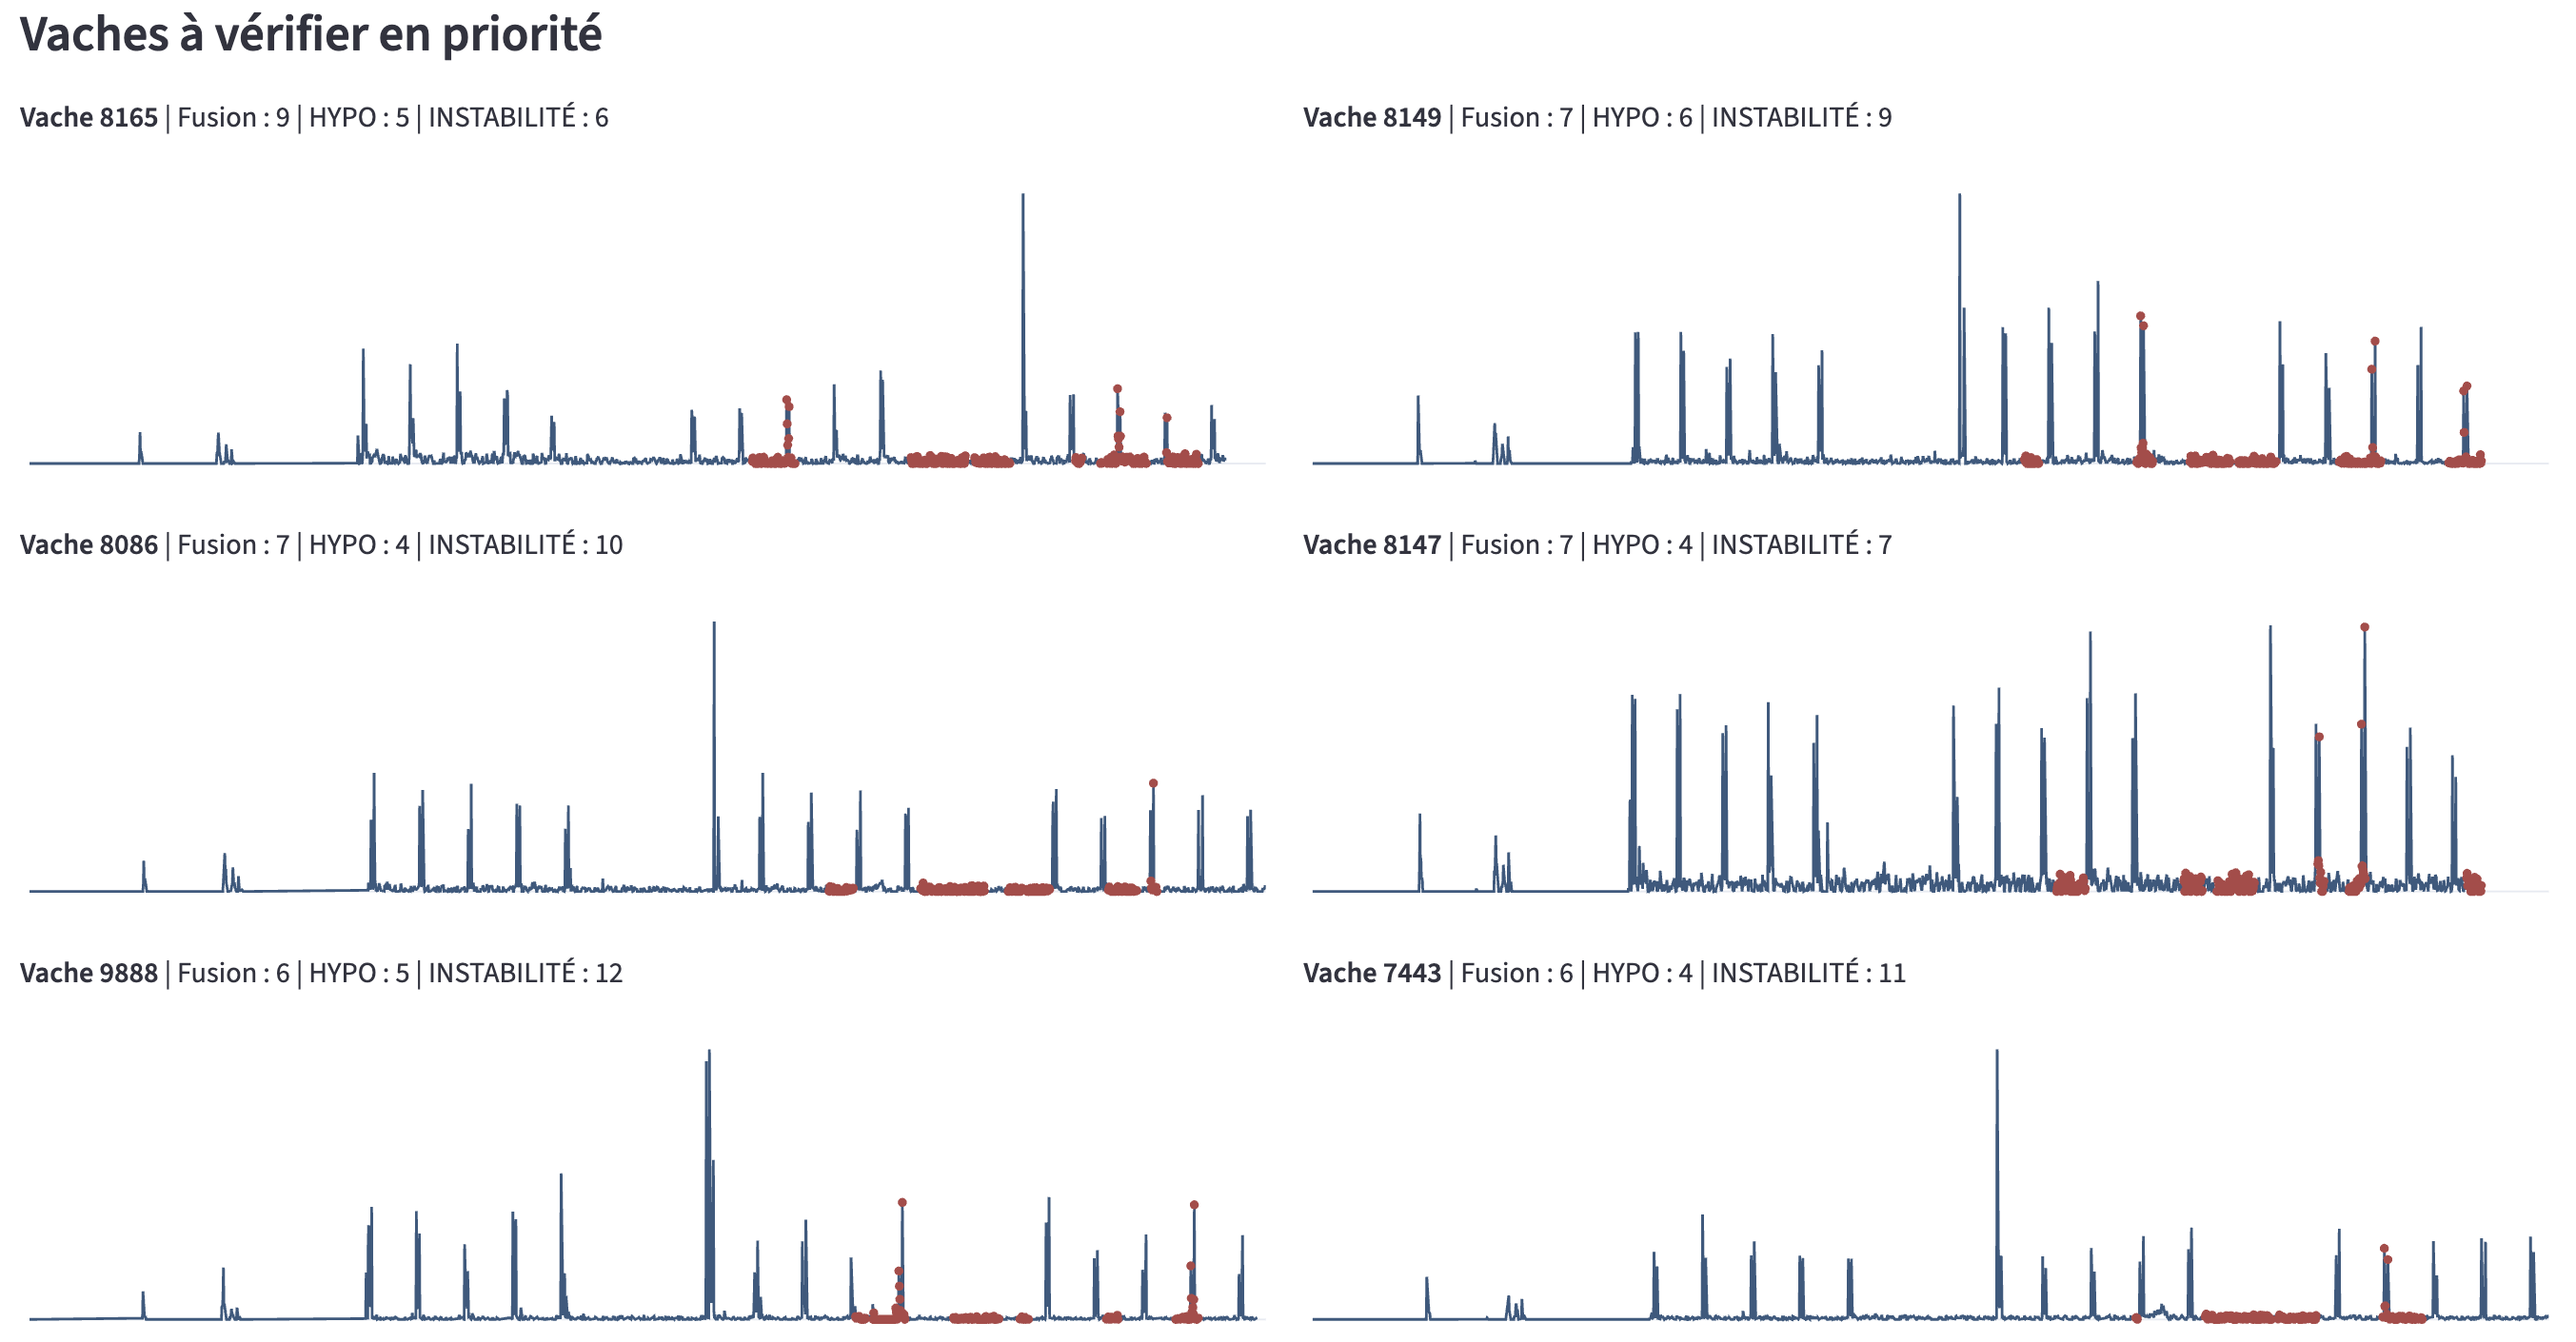
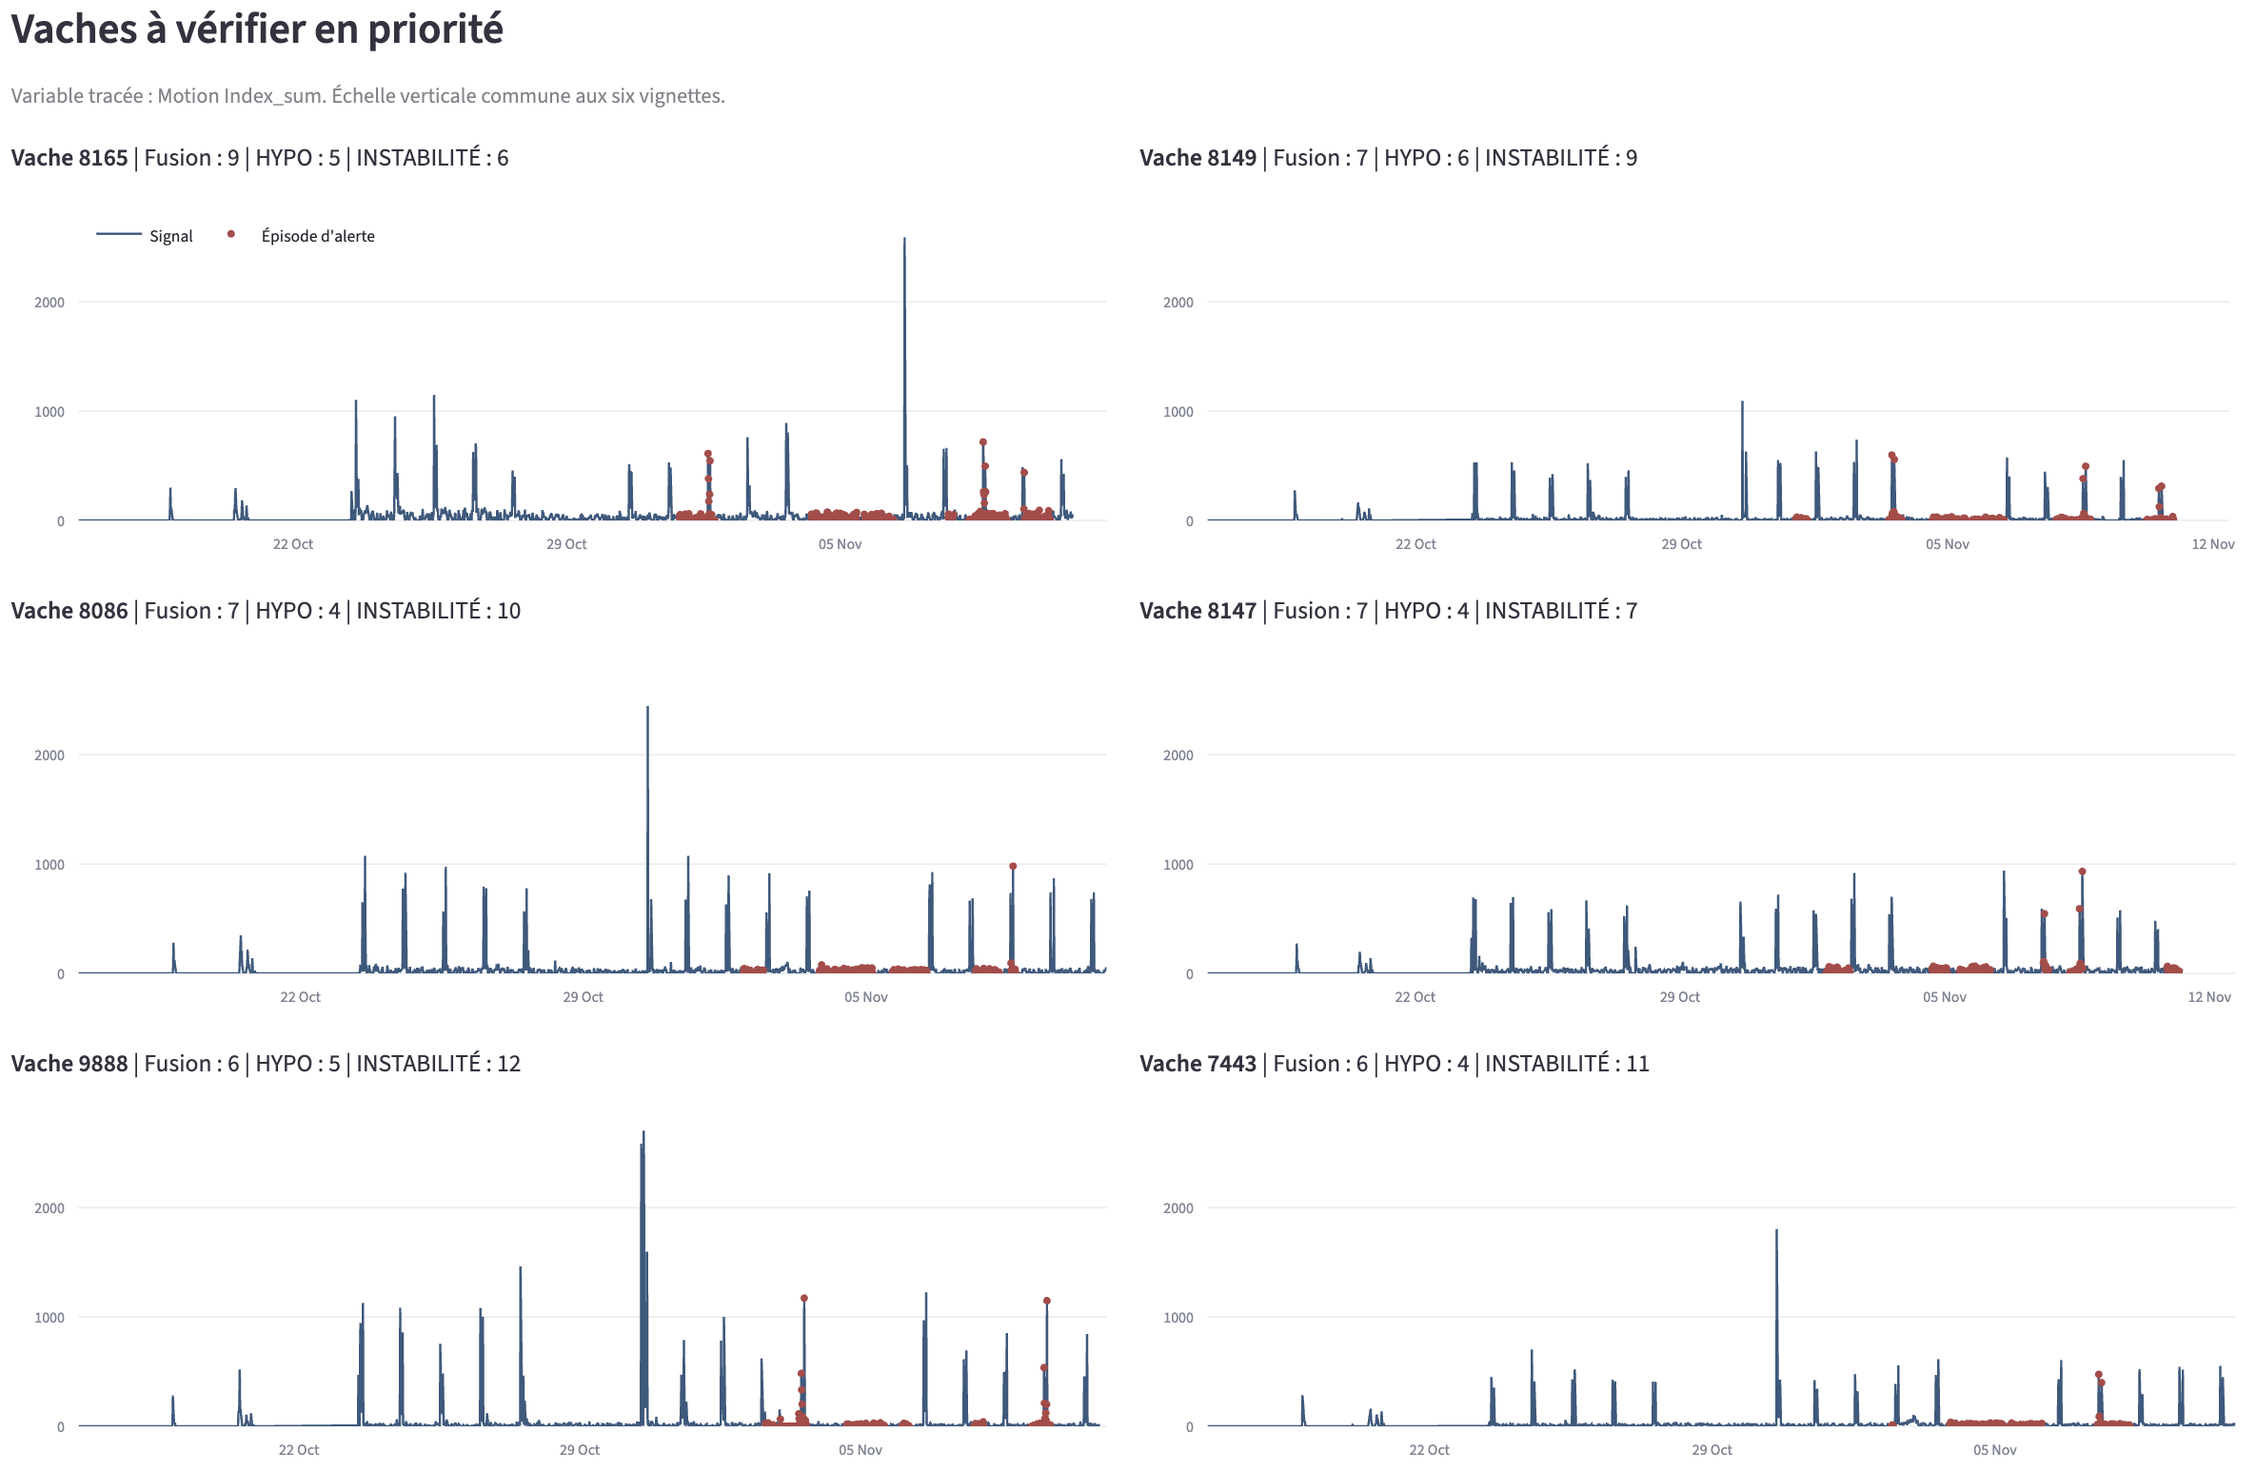
memoirev3: recapturer la figure 5.5 avec ses axes
La vue porte desormais les dates, les graduations, l'echelle commune aux
six vignettes et la cle de lecture. La capture passe en RGB : macOS lui
avait ajoute un canal alpha, entierement opaque et sans effet visuel, mais
que la validation PDF/A-1b refuse.

Plus haute que la precedente, elle depassait de trois dixiemes de point la
hauteur disponible a 0,98 de la ligne, ce qui repoussait le flottant et
ajoutait une page. Elle passe a 0,96 : 5,65 pouces de hauteur, 273 ppp,
129 pages et aucun debordement.

Les deux commentaires de mise en page de ce bloc decrivaient encore neuf
vignettes sur trois rangees et un cadrage a 0,90 ; ils sont refaits sur
les valeurs mesurees.

diff --git a/memoire/ch5_interface.tex b/memoire/ch5_interface.tex
@@ -212,9 +212,9 @@ le représente la Figure~\ref{fig:streamlit_priority_animals}. L'ordre de vérif
 motif qui le justifie se lisent ainsi ensemble, sans qu'il soit nécessaire de revenir à la
 vue individuelle de chaque vache.
 
-% Page paysage. Neuf vignettes reparties sur trois rangees restent illisibles a
-% la largeur du texte : la vue pivotee leur donne un quart de largeur en plus,
-% et c'est la lisibilite qui prime ici sur la finesse d'impression. Meme
+% Page paysage. Six vignettes sur deux colonnes restent illisibles a la largeur
+% du texte : la vue pivotee leur donne un quart de largeur en plus, et c'est la
+% lisibilite qui prime ici sur la finesse d'impression. Meme
 % dispositif qu'au chapitre 6 : le folio normal tomberait sur le bord gauche
 % une fois la page pivotee, on le neutralise et on le replace, pivote, au bas
 % de la vue.
@@ -230,11 +230,14 @@ vue individuelle de chaque vache.
   \vspace*{\fill}
   \begin{figure}[H]
     \centering
-    % 0,90 et non davantage : la capture des neuf vignettes a un rapport de
-    % 1,40, si bien qu'a 0,95 la figure et sa legende totalisent 6,54 pouces
-    % pour 6,53 disponibles. Ce depassement d'un centieme suffisait a repousser
-    % le flottant et a laisser une page blanche derriere lui.
-    \includegraphics[width=0.98\linewidth]{figures/streamlit_priority_animals.png}
+    % 0,96 et non 0,98 : la capture fait 2370 px pour un rapport de 1,53, si bien
+    % qu'a 0,98 la figure et sa legende depassaient de trois dixiemes de point la
+    % hauteur disponible. Ce depassement suffisait a repousser le flottant et a
+    % ajouter une page. A 0,96 elle occupe 5,65 pouces sur 8,67 de large et rend
+    % a 273 ppp, sous le seuil usuel mais sans perte visible sur un trace au
+    % trait. La largeur reste prise au plus haut : les graduations et les dates
+    % des vignettes ne se lisent qu'a cette taille.
+    \includegraphics[width=0.96\linewidth]{figures/streamlit_priority_animals.png}
     \caption{Vaches à vérifier en priorité.}
     \label{fig:streamlit_priority_animals}
   \end{figure}
